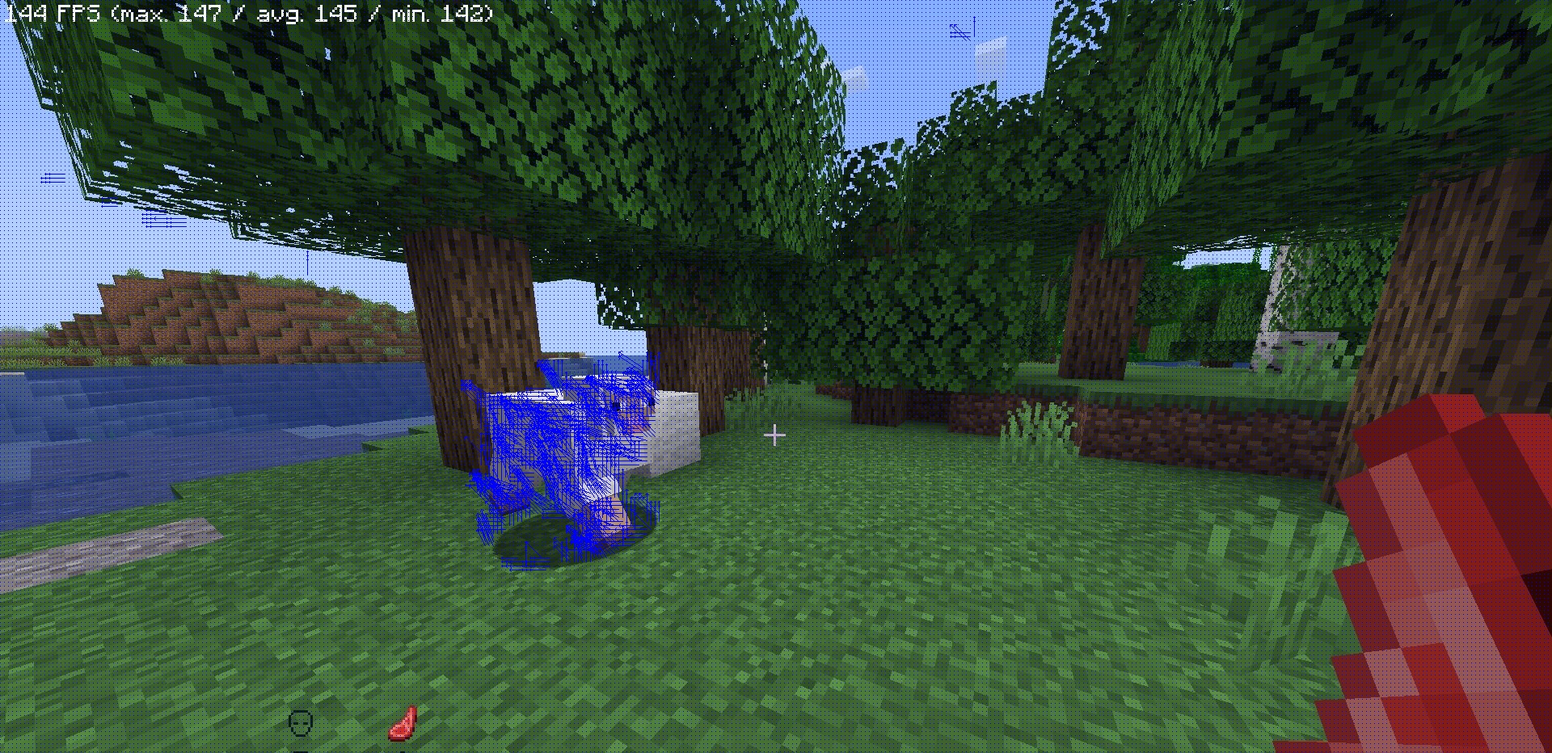
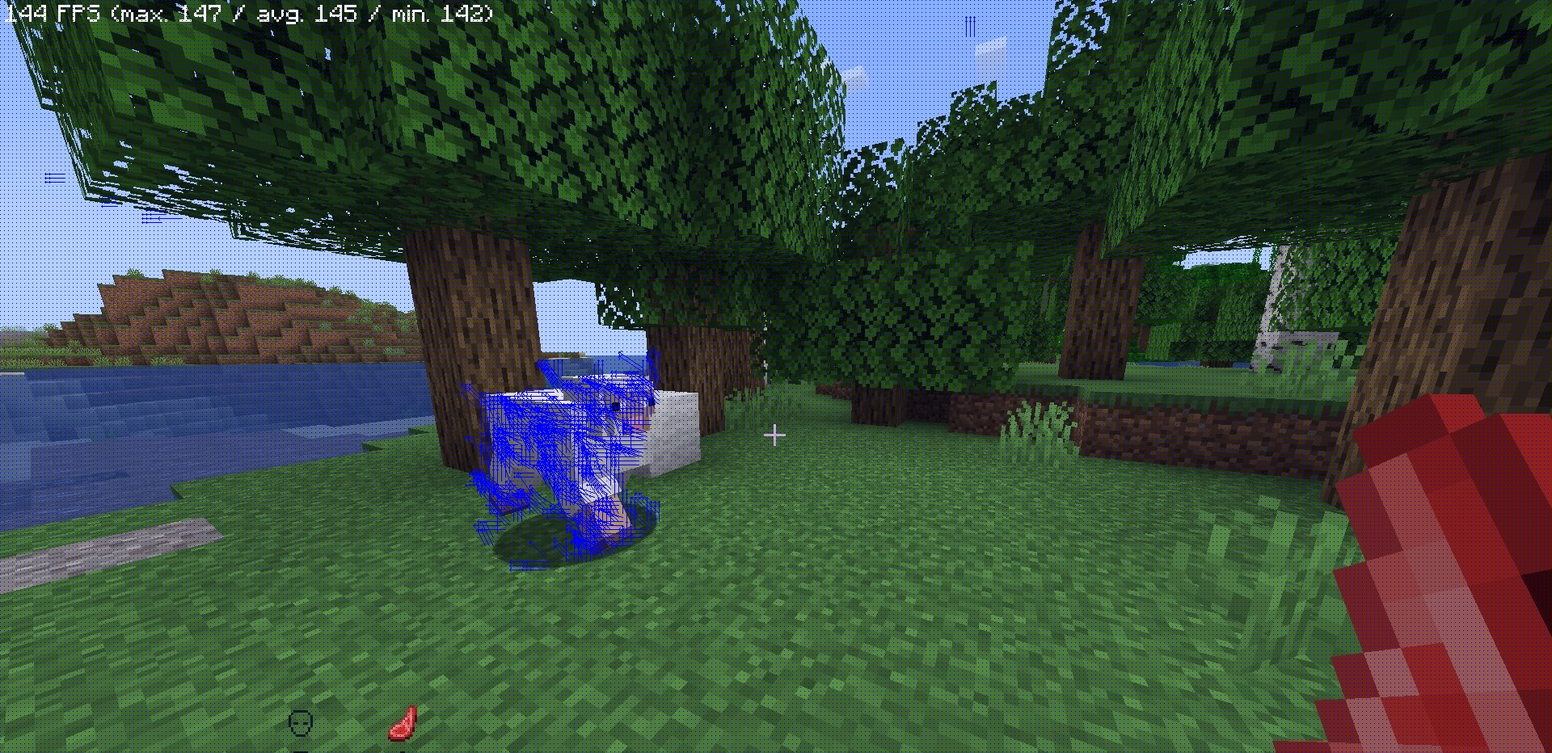
Add triple filtration

Changed region(s): [[0.2812, 0.4667, 0.4375, 0.7468], [0.2812, 0.4979, 0.3125, 0.529]]

diff --git a/lab6/include/clusterization.hpp b/lab6/include/clusterization.hpp
@@ -303,6 +303,8 @@ void getVectorsImg(const cv::Mat &previous_img, const cv::Mat &current_img, int 
     drawVectors(src_bordered, output_imgs["vectors"], vectors);
 
 
+    filterVectors(blockSize*3, vectors, vectorsFiltered);
+    filterVectors(blockSize*2, vectorsFiltered, vectors);
     filterVectors(blockSize, vectors, vectorsFiltered);
     drawVectors(src_bordered, output_imgs["filteredVectors"], vectorsFiltered);
 
